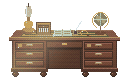
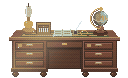
Library: readable globe and side table, wall paintings replace floating shelves
Repaint the desk globe (turned stand, meridian half-ring, shaded sphere, no crosshair) and the side table (crystal decanter, tumbler, books) with a new side_table hotspot; remove the hanging shelves beside the fireplace and dress the wall with a picture rail, an ancestor portrait, a lake painting, panels and sconces.

diff --git a/tools/art/library.py b/tools/art/library.py
@@ -254,15 +254,102 @@ def bookcase(img, x0, x1, shelf_top=14, seed=0):
 def shelves(img):
     bookcase(img, 16, 128, 10, 2)
     bookcase(img, *RIGHT_CASE, 10, 7)
+
+
+def gilt_frame(img, box):
+    """A gilt picture frame with a lit top/left and shaded bottom/right, hung by two cords from a rail hook."""
     d = ImageDraw.Draw(img)
-    # middle upper shelves flanking the fireplace
-    for x0, x1, seed in ((132, 166, 13), (312, 346, 17)):
-        d.rectangle([x0, 20, x1, 108], fill=MAHOGANY)
-        d.rectangle([x0 + 4, 24, x1 - 4, 104], fill=hx("27130d"))
-        for sy in (44, 68, 92):
-            d.rectangle([x0 + 4, sy, x1 - 4, sy + 3], fill=MAHOGANY_L)
-            book_rows(d, x0 + 6, sy - 16, x1 - 6, sy, seed + sy)
-        d.rectangle([x0, 20, x1, 108], outline=hx("160906"))
+    x0, y0, x1, y1 = box
+    cx = (x0 + x1) // 2
+    shadow(img, "rect", [x0 + 2, y0 + 3, x1 + 3, y1 + 4], 0.4, 2)
+    d.line([(cx, 2), (x0 + 4, y0)], fill=hx("6a5030"))
+    d.line([(cx, 2), (x1 - 4, y0)], fill=hx("6a5030"))
+    d.rectangle([cx - 1, 1, cx + 1, 3], fill=GOLD)
+    d.rectangle(box, fill=hx("9a7838"), outline=hx("3a2410"))
+    d.line([(x0 + 1, y0 + 1), (x1 - 1, y0 + 1)], fill=hx("e8c870"))
+    d.line([(x0 + 1, y0 + 1), (x0 + 1, y1 - 1)], fill=hx("d8b462"))
+    d.line([(x0 + 1, y1 - 1), (x1 - 1, y1 - 1)], fill=hx("6a4e22"))
+    d.line([(x1 - 1, y0 + 1), (x1 - 1, y1 - 1)], fill=hx("6a4e22"))
+    d.rectangle([x0 + 3, y0 + 3, x1 - 3, y1 - 3], outline=hx("4a3416"))
+    for x, y in ((x0 + 1, y0 + 1), (x1 - 1, y0 + 1), (x0 + 1, y1 - 1), (x1 - 1, y1 - 1)):
+        d.point((x, y), fill=hx("fff0b0"))
+    return x0 + 4, y0 + 4, x1 - 4, y1 - 4
+
+
+def ancestor_portrait(img, box):
+    """A stern Harrington forebear in oils: dark ground, black coat, white collar, a pale lined face, grey whiskers."""
+    d = ImageDraw.Draw(img)
+    x0, y0, x1, y1 = gilt_frame(img, box)
+    vgrad(img, (x0, y0, x1, y1), hx("3e3220"), hx("1e1810"))
+    cx = (x0 + x1) // 2
+    d.polygon([(x0, y1), (x0 + 2, y1 - 8), (cx - 3, y1 - 12), (cx + 3, y1 - 12), (x1 - 2, y1 - 8), (x1, y1)],
+              fill=hx("16141a"))
+    d.line([(x1 - 3, y1 - 8), (x1 - 1, y1)], fill=hx("34303a"))
+    d.polygon([(cx - 3, y1 - 12), (cx + 3, y1 - 12), (cx, y1 - 7)], fill=hx("e8e2d0"))
+    d.line([(cx, y1 - 7), (cx, y1 - 3)], fill=hx("6a2020"))
+    d.ellipse([cx - 4, y0 + 4, cx + 4, y1 - 11], fill=hx("c8a080"))
+    d.chord([cx - 4, y0 + 4, cx + 4, y1 - 11], 90, 270, fill=hx("a07858"))
+    d.chord([cx - 5, y0 + 2, cx + 5, y0 + 10], 180, 360, fill=hx("8a8478"))
+    for side in (-1, 1):
+        d.line([(cx + side * 4, y0 + 7), (cx + side * 4, y0 + 13)], fill=hx("9a9488"))
+        d.point((cx + side * 2, y0 + 9), fill=hx("24180e"))
+    d.line([(cx - 2, y0 + 7), (cx - 1, y0 + 7)], fill=hx("6a5a48"))
+    d.line([(cx + 1, y0 + 7), (cx + 2, y0 + 7)], fill=hx("6a5a48"))
+    d.line([(cx - 1, y0 + 13), (cx + 1, y0 + 13)], fill=hx("6a3a2a"))
+    d.point((cx + 2, y0 + 6), fill=hx("ecd0b0"))
+
+
+def lake_painting(img, box):
+    """A Lake Michigan seascape: pale sky, a cloud, a wooded headland, blue water and a single white sail."""
+    d = ImageDraw.Draw(img)
+    x0, y0, x1, y1 = gilt_frame(img, box)
+    horizon = y0 + (y1 - y0) * 5 // 9
+    vgrad(img, (x0, y0, x1, horizon), hx("8ab0c4"), hx("d8dcc8"))
+    vgrad(img, (x0, horizon, x1, y1), hx("4a7890"), hx("26485a"))
+    d.ellipse([x0 + 12, y0 + 2, x0 + 22, y0 + 6], fill=hx("f0ece0"))
+    d.ellipse([x0 + 17, y0 + 1, x0 + 25, y0 + 5], fill=hx("fcf8ec"))
+    d.polygon([(x0, horizon - 5), (x0 + 4, horizon - 7), (x0 + 9, horizon - 4), (x0 + 12, horizon), (x0, horizon)],
+              fill=hx("2e4428"))
+    d.line([(x0 + 1, horizon - 6), (x0 + 5, horizon - 7)], fill=hx("4e6a3a"))
+    d.line([(x0 + 12, horizon), (x1, horizon)], fill=hx("9ab8c0"))
+    for i, y in enumerate(range(horizon + 3, y1, 3)):
+        d.line([(x0 + 4 + i * 3, y), (x0 + 9 + i * 3, y)], fill=hx("8ab4c8"))
+    sx = x1 - 9
+    d.polygon([(sx, horizon - 7), (sx, horizon - 1), (sx + 4, horizon - 1)], fill=hx("f8f4e8"))
+    d.polygon([(sx - 1, horizon - 5), (sx - 1, horizon - 1), (sx - 3, horizon - 1)], fill=hx("d8d0c0"))
+    d.line([(sx - 3, horizon), (sx + 4, horizon)], fill=hx("3a2a20"))
+
+
+def sconce(img, x, y):
+    """An unlit brass wall sconce: a backplate, a curled arm, a drip pan and a white candle."""
+    d = ImageDraw.Draw(img)
+    shadow(img, "ellipse", [x - 3, y - 1, x + 5, y + 17], 0.3, 2)
+    d.ellipse([x - 2, y + 4, x + 2, y + 14], fill=hx("8a6a30"), outline=hx("4a3418"))
+    d.point((x - 1, y + 6), fill=hx("e8c870"))
+    d.arc([x - 1, y + 8, x + 5, y + 14], 0, 180, fill=hx("a8823e"))
+    d.line([(x + 5, y + 11), (x + 5, y + 6)], fill=hx("a8823e"))
+    d.ellipse([x + 2, y + 4, x + 8, y + 7], fill=hx("b89a5a"), outline=hx("5a4020"))
+    d.rectangle([x + 4, y - 4, x + 6, y + 4], fill=hx("ded4b8"))
+    d.line([(x + 4, y - 4), (x + 4, y + 4)], fill=hx("f4ecd8"))
+    d.point((x + 5, y - 5), fill=hx("342820"))
+
+
+def wall_dressing(img):
+    """The wall either side of the chimney breast: a picture rail with a gilt-framed ancestor and a lake view hung
+    over the mantel, raised panels in the narrow bays beside the fireplace and an unlit sconce in each."""
+    d = ImageDraw.Draw(img)
+    d.line([(128, 2), (342, 2)], fill=MAHOGANY_L)
+    d.line([(128, 3), (342, 3)], fill=hx("1e0d08"))
+    for x0, x1 in ((132, 144), (332, 338)):
+        d.rectangle([x0, 48, x1, 104], fill=hx("442a1e"), outline=hx("26140e"))
+        d.line([(x0 + 1, 49), (x1 - 1, 49)], fill=hx("6a4630"))
+        d.line([(x0 + 1, 49), (x0 + 1, 103)], fill=hx("5e3e2a"))
+        if x1 - x0 > 8:
+            d.rectangle([x0 + 3, 52, x1 - 3, 100], outline=hx("2e1a12"))
+    ancestor_portrait(img, (146, 6, 174, 37))
+    lake_painting(img, (300, 9, 338, 35))
+    sconce(img, 136, 64)
+    sconce(img, 332, 64)
 
 
 # The writing desk is a real prop: build() cuts it out of the painting into library_desk.png, drawn by a
@@ -351,16 +438,29 @@ def desk_props(img):
     d.ellipse([256, 160, 263, 165], outline=hx("c89a54"))
     d.point((258, 161), fill=hx("e8f0f0"))
     d.line([(262, 164), (266, 166)], fill=hx("5a2a18"))
-    # globe on a brass meridian stand
-    d.ellipse([271, 161, 281, 164], fill=hx("5a3a1a"))
-    d.line([(276, 155), (276, 162)], fill=hx("7b572e"))
-    d.arc([268, 142, 284, 158], 120, 420, fill=hx("c8a25a"))
-    d.ellipse([270, 143, 282, 155], fill=hx("4a6a7a"))
-    d.polygon([(272, 146), (276, 145), (277, 149), (274, 151), (272, 149)], fill=hx("7a9a5a"))
-    d.polygon([(278, 148), (281, 149), (280, 153), (278, 152)], fill=hx("8aa860"))
-    d.line([(276, 143), (276, 155)], fill=hx("a0c29a"))
-    d.line([(270, 149), (282, 149)], fill=hx("a0c29a"))
-    d.point((273, 145), fill=hx("e8f4f0"))
+    # desk globe: a turned walnut foot and stem, an ocean sphere lit from the window on the right with two
+    # continents, a curved equator and meridian, and a brass meridian half-ring pivoting at the poles
+    d.ellipse([269, 160, 283, 165], fill=hx("3a1a10"))
+    d.ellipse([270, 159, 282, 163], fill=hx("6e3c22"), outline=hx("2a120b"))
+    d.line([(272, 160), (279, 160)], fill=hx("a0643e"))
+    d.rectangle([275, 155, 277, 160], fill=hx("5a3018"))
+    d.ellipse([273, 156, 279, 159], fill=hx("8a5232"))
+    d.point((276, 156), fill=hx("c08a5a"))
+    d.ellipse([269, 141, 283, 155], fill=hx("2c4a5e"))
+    d.ellipse([271, 141, 283, 154], fill=hx("3e6680"))
+    d.ellipse([274, 142, 283, 152], fill=hx("5a8aa2"))
+    d.polygon([(272, 144), (275, 143), (277, 146), (276, 149), (274, 152), (272, 149)], fill=hx("7a8a4a"))
+    d.polygon([(278, 145), (281, 146), (282, 149), (280, 151), (278, 149)], fill=hx("b0a060"))
+    d.point((273, 146), fill=hx("98a85a"))
+    d.point((280, 147), fill=hx("d8c88a"))
+    d.arc([269, 145, 283, 151], 0, 180, fill=hx("c8b88a"))
+    d.arc([273, 141, 280, 155], 270, 90, fill=hx("8ab0b8"))
+    d.point((280, 143), fill=hx("ffffff"))
+    d.point((281, 144), fill=hx("e8f4f8"))
+    d.arc([266, 138, 286, 158], 95, 265, fill=hx("c8a25a"))
+    d.arc([267, 139, 285, 157], 100, 260, fill=hx("6a4a1e"))
+    d.ellipse([275, 137, 278, 140], fill=GOLD)
+    d.point((276, 157), fill=GOLD)
 
 
 def desk_mask():
@@ -395,12 +495,36 @@ def chairs(img):
         for x in (x0, x1 - 5):
             d.rounded_rectangle([x, seat - 10, x + 5, seat + 8], 2, fill=hx("54281e"), outline=hx("2c160e"))
             d.line([(x + 1, seat - 9), (x + 4, seat - 9)], fill=hx("9a5840"))
-    # small side table
-    d.ellipse([144, 176, 182, 184], fill=hx("744128"))
-    d.line([(152, 180), (148, 214)], fill=hx("3a190f"), width=2)
-    d.line([(174, 180), (178, 214)], fill=hx("3a190f"), width=2)
-    d.ellipse([156, 166, 170, 176], fill=hx("6c8a52"))
-    d.line([(162, 166), (162, 176)], fill=hx("8cb47a"))
+    # small walnut side table by the armchair: a crystal whisky decanter, a tumbler and two books laid flat
+    shadow(img, "ellipse", [140, 208, 188, 218], 0.35, 3)
+    for (ax, ay), (bx, by) in (((150, 183), (145, 213)), ((176, 183), (181, 213)), ((163, 186), (163, 215))):
+        d.line([(ax, ay), (bx, by)], fill=hx("2a120b"), width=3)
+        d.line([(ax, ay + 1), (bx, by - 1)], fill=hx("8a5232"))
+        d.ellipse([bx - 2, by - 1, bx + 2, by + 2], fill=hx("3a1a10"))
+    d.ellipse([142, 177, 184, 188], fill=hx("2a120b"))
+    d.ellipse([142, 176, 184, 186], fill=hx("5a2c18"))
+    d.ellipse([143, 174, 183, 184], fill=hx("8a5232"), outline=hx("3a1a10"))
+    d.arc([146, 175, 180, 183], 200, 340, fill=hx("c08a5a"))
+    # books
+    d.rectangle([146, 175, 160, 179], fill=hx("7a2c22"), outline=hx("2a0e0a"))
+    d.line([(147, 177), (159, 177)], fill=hx("ece2c8"))
+    d.line([(147, 176), (159, 176)], fill=hx("a64a3a"))
+    d.rectangle([148, 171, 159, 175], fill=hx("33441f"), outline=hx("16200c"))
+    d.line([(149, 173), (158, 173)], fill=hx("e0d4b4"))
+    d.line([(149, 172), (158, 172)], fill=GOLD)
+    # decanter: square-shouldered cut crystal, amber whisky in the lower half, a ball stopper
+    d.polygon([(164, 169), (174, 169), (175, 179), (163, 179)], fill=hx("b8c8c8"), outline=hx("4a5a5a"))
+    d.rectangle([164, 173, 174, 178], fill=hx("b06a20"))
+    d.line([(164, 173), (174, 173)], fill=hx("e8a848"))
+    d.line([(165, 170), (165, 178)], fill=hx("ffffff"))
+    d.line([(169, 170), (169, 178)], fill=hx("8a9a9a"))
+    d.rectangle([168, 165, 170, 168], fill=hx("c8d8d8"), outline=hx("4a5a5a"))
+    d.ellipse([167, 161, 171, 165], fill=hx("dce8e8"), outline=hx("4a5a5a"))
+    d.point((168, 162), fill=hx("ffffff"))
+    # tumbler with a finger of whisky
+    d.rectangle([176, 174, 181, 180], fill=hx("c0d0d0"), outline=hx("4a5a5a"))
+    d.rectangle([177, 177, 180, 179], fill=hx("b06a20"))
+    d.line([(177, 175), (177, 179)], fill=hx("ffffff"))
 
 
 def ladder(img):
@@ -431,6 +555,7 @@ def paint(include_desk=True):
     arched_window(img)
     fireplace(img)
     shelves(img)
+    wall_dressing(img)
     mantle_items(img)
     parquet_floor(img)
     chairs(img)

diff --git a/scripts/Rooms/Library.cs b/scripts/Rooms/Library.cs
@@ -62,6 +62,9 @@ public partial class Library : Room
             case ("globe", Verb.Hand):
                 await Say("I spun it. It stopped on the Pacific. Story of my life: lots of water, no direction.");
                 return true;
+            case ("side_table", Verb.Hand):
+                await Say("One glass would steady my hands. Then it'd be two, and I'd forget why I came.");
+                return true;
             case ("desk", Verb.Hand or Verb.Look):
                 if (!State.HasFlag("librarian_refused"))
                 {
